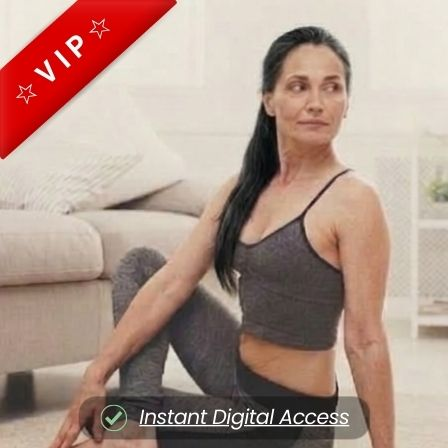
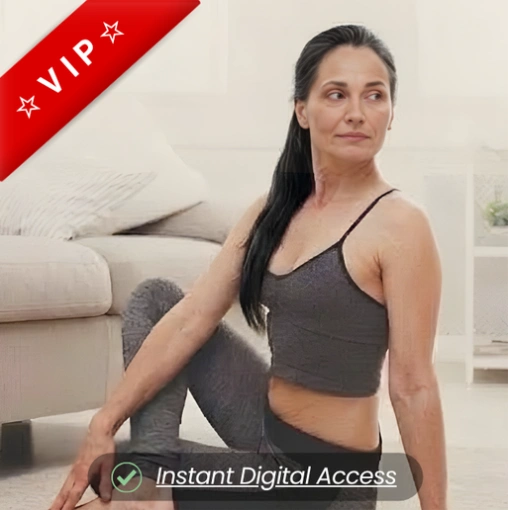
update section 1 and 2 revisions

diff --git a/assets/css/style.css b/assets/css/style.css
@@ -2,6 +2,16 @@
     top: 49%
 }
 
+.push-button-img {
+margin-top: -20px;
+}
+
+.push-button-img img {
+    width: 270px;
+}
+
+
+
 .headline-text-color {
     color: #c1ddc4;
 }
@@ -305,6 +315,11 @@ p a {
 
 @media (max-width: 767.98px) {
 
+    .push-button-img img {
+    width: 230px;
+
+}
+
     .mt-350 {
             margin-top: 350px;
     }
@@ -379,9 +394,6 @@ background-position: 20% center;
         position: relative;
     z-index: -1111111;
 }
-
-
-
 
 .bg-senior_twist {
         background-image: 

diff --git a/pages/section1.php b/pages/section1.php
@@ -15,7 +15,7 @@
 
                 <h3>You just gave your body internal support.
                     That matters.</h3>
-                <h1 class="headline-text-color fst-italic">Now let's help it MOVE<br>
+                <h1 class="headline-text-color fst-italic mb-5">Now let's help it MOVE<br>
                     <span class="signature">again</span>.
                 </h1>
             </div>
@@ -44,6 +44,8 @@
         <div class="row">
             <div class="col-md-8">
                 <h2 class="text-center mt-2">But here's something important <br>to remember...</h2>
+            </div>
+            <div class="col-10 col-md-8">
                 <p>Supporting your body from the inside and keeping it moving work together to support your health and
                     well-being.<sup>1,2</sup></p>
                 <p class="fw-bold">Your body benefits from regular movement and physical activity, which can help
@@ -51,7 +53,7 @@
                 <p>We GET it.</p>
                 <p>Between work, responsibilities, groceries, appointments, cooking, cleaning...</p>
                 <p>Life fills up quickly.</p>
-                <p>Who has TIME to exercise</p>
+                <p>Who has TIME to exercise?</p>
             </div>
         </div>
     </div>
@@ -79,12 +81,12 @@
 <div class="container-fluid bg-senior_twist">
     <div class="container ">
         <div class="row">
-            <div class="col-md-6 offset-50">
+            <div class="col-9 offset-3 col-md-6 offset-50">
                 <p class="fw-bold">Here's what we've learned:</p>
                 <p>Vitality doesn't come from just ONE thing.</p>
                 <p>It comes from TWO things working together.</p>
 
-                <p><b>Internal support...</b> which <b>Resilience</b> helps provide for you.</p>
+                <p><b>Internal support...</b> which <b class="fst-italic">Resilience</b> helps provide for you.</p>
 
                 <p><b>And gentle, sustainable movement...</b> which your body may be ready for right now.</p>
 
@@ -92,7 +94,7 @@
 
                 <p>That's when you may start feeling GOOD again.</p>
                 <p>Not just "less tired."</p>
-                <p>Actually good.</p>
+                <p class="m-0">Actually good.</p>
             </div>
         </div>
     </div>
@@ -122,7 +124,7 @@
                 <p>They're GENTLE.</p>
                 <p>They're EASY to fit into your day.</p>
                 <p class="fw-bold">And they're designed to help you feel STRONGER...</p>
-                <p>not more worn out.</p>
+                <p class="fw-bold">not more worn out.</p>
 
                 <p>Pick the ONE that sounds like what you need most right now.</p>
 
@@ -244,8 +246,8 @@
                 <ul class="list-unstyled">
                     <li>
                         <p>→ Access to a <b>private community</b> where you can ask questions and get answers from
-                            certified
-                            yoga instructors and physiotherapists.</p>
+                            <b>certified yoga instructors and physiotherapists</b>.
+                        </p>
                     </li>
                     <li>
                         <p>→ <b>Monthly discount codes</b> on products that support your wellness.</p>

diff --git a/pages/section2.php b/pages/section2.php
@@ -146,11 +146,11 @@
     <div class="container">
         <div class="row">
             <div class="col-12">
-                <div class="text-center text-md-end">
+                <div class="text-center text-md-end push-button-img">
                     <img src="<?php echo BASE_URL ?>assets/img/pusg_button.webp"
-                        class="img-fluid float-md-end float-end" width="250" />
+                        class="img-fluid float-md-end float-end" />
                 </div>
-                <h2 class="option3-headline-color">
+                <h2 class="option3-headline-color mt-2">
                     Here's How This Works:
                 </h2>
                 <p>Pick the program that feels right for you.</p>
@@ -160,14 +160,12 @@
                 <p>After your trial, you'll automatically continue at the regular monthly rate.</p>
                 <p>And if you decide it's not for you... just email WeCare@LongevityNutritionals.com or call or text +1
                     (888) 884-9895 before the 14 days are up.</p>
-                <p>We'll cancel your membership. No questions asked.</p>
+                <p>We'll cancel your membership. <b>No questions asked</b>.</p>
 
             </div>
         </div>
     </div>
 </div>
-
-
 
 <div class="container-fluid bg-woman_stretch">
     <div class="container">
@@ -189,7 +187,6 @@
                     <p class="fw-bold">So pick the program that fits what you need right now.</p>
                     <p>Try it for 14 days.</p>
                     <p class="fw-bold">And see how you feel... when your body has BOTH.</p>
-
                 </div>
             </div>
         </div>
@@ -199,11 +196,11 @@
 <div class="container-fluid sub-headline-bg-color">
     <div class="container">
         <div class="row ">
-            <h2 class="option3-headline-color text-center mt-4">
+            <h2 class="option3-headline-color text-center mt-4 mb-3">
                 Still Not Sure Which One To Pick?
             </h2>
-            <h5 class="text-center mb-3">Here's a quick guide:</h5>
-            <div class="col-md-4 d-flex mb-5 mb-md-0">
+            <h5 class="text-center mb-4">Here's a quick guide:</h5>
+            <div class="col-md-4 d-flex mb-5 mb-md-0 mt-4 mt-md-0">
                 <div class="shadow-lg rounded-30 w-100 d-flex flex-column bg-white removepx">
                     <div class="bg-column-option-1 p-3 rounded-top-30 px-5">
                         <h5 class="bg-option_s text-white option-mt-30 text-center">
@@ -259,15 +256,14 @@
     <div class="position-relative">
 
         <!-- IMAGE -->
-        <img src="<?php echo BASE_URL ?>assets/img/offer_banner.webp" alt="offer_banner" class="w-100" height="300px">
+        <img src="<?php echo BASE_URL ?>assets/img/offer_banner.webp" alt="offer_banner" class="w-100" height="260px">
 
         <!-- TEXT OVER IMAGE -->
-        <div class="position-absolute top-40 start-50 translate-middle text-center">
+        <div class="position-absolute top-40 start-50 translate-middle text-center w-100">
             <h1 class="headline-text-color fst-italic">
-                Choose Your Own<br>Health Journey
+                <span>Choose Your Own<br>Health Journey</span>
             </h1>
         </div>
-
     </div>
 </div>
 

diff --git a/includes/faq.php b/includes/faq.php
@@ -75,17 +75,18 @@
                             </p>
                             <ul>
                                 <li>
-                                    <p> Gentle Stretching Essentials helps loosen tight muscles and reduce stiffness.
+                                    <p> <b>Gentle Stretching Essentials</b> helps loosen tight muscles and reduce
+                                        stiffness.
                                     </p>
                                 </li>
 
                                 <li>
-                                    <p> Lifelong Wellness Academy provides a complete wellness system with workouts,
+                                    <p> <b>Lifelong Wellness Academy</b> provides a complete wellness system with
+                                        workouts,
                                         recipes, and mindfulness.</p>
                                 </li>
-
                                 <li>
-                                    <p> EFI+ focuses on targeted programs for ongoing pain or injuries.</p>
+                                    <p> <b>EFI+</b> focuses on targeted programs for ongoing pain or injuries.</p>
                                 </li>
                             </ul>
 
@@ -149,10 +150,8 @@
                                 you can do at home. Some optional exercises may suggest light dumbbells, resistance
                                 bands, or a yoga mat.
                             </p>
-
                         </div>
                     </div>
-
 
                     <div class="accordion-item ">
                         <div class="accordion-header">

diff --git a/includes/footer.php b/includes/footer.php
@@ -13,7 +13,7 @@
                 target="_blank">Privacy
                 Policy</a>
             <span class="text-success">●</span>
-            <a href="https://www.longevitynutritionals.com/cookie-policy/" class="text-decoration-none text-dark"
+            <a href="https://longevitynutritionals.net/cookie-policy/" class="text-decoration-none text-dark"
                 target="_blank">Cookie
                 Policy</a>
         </p>
